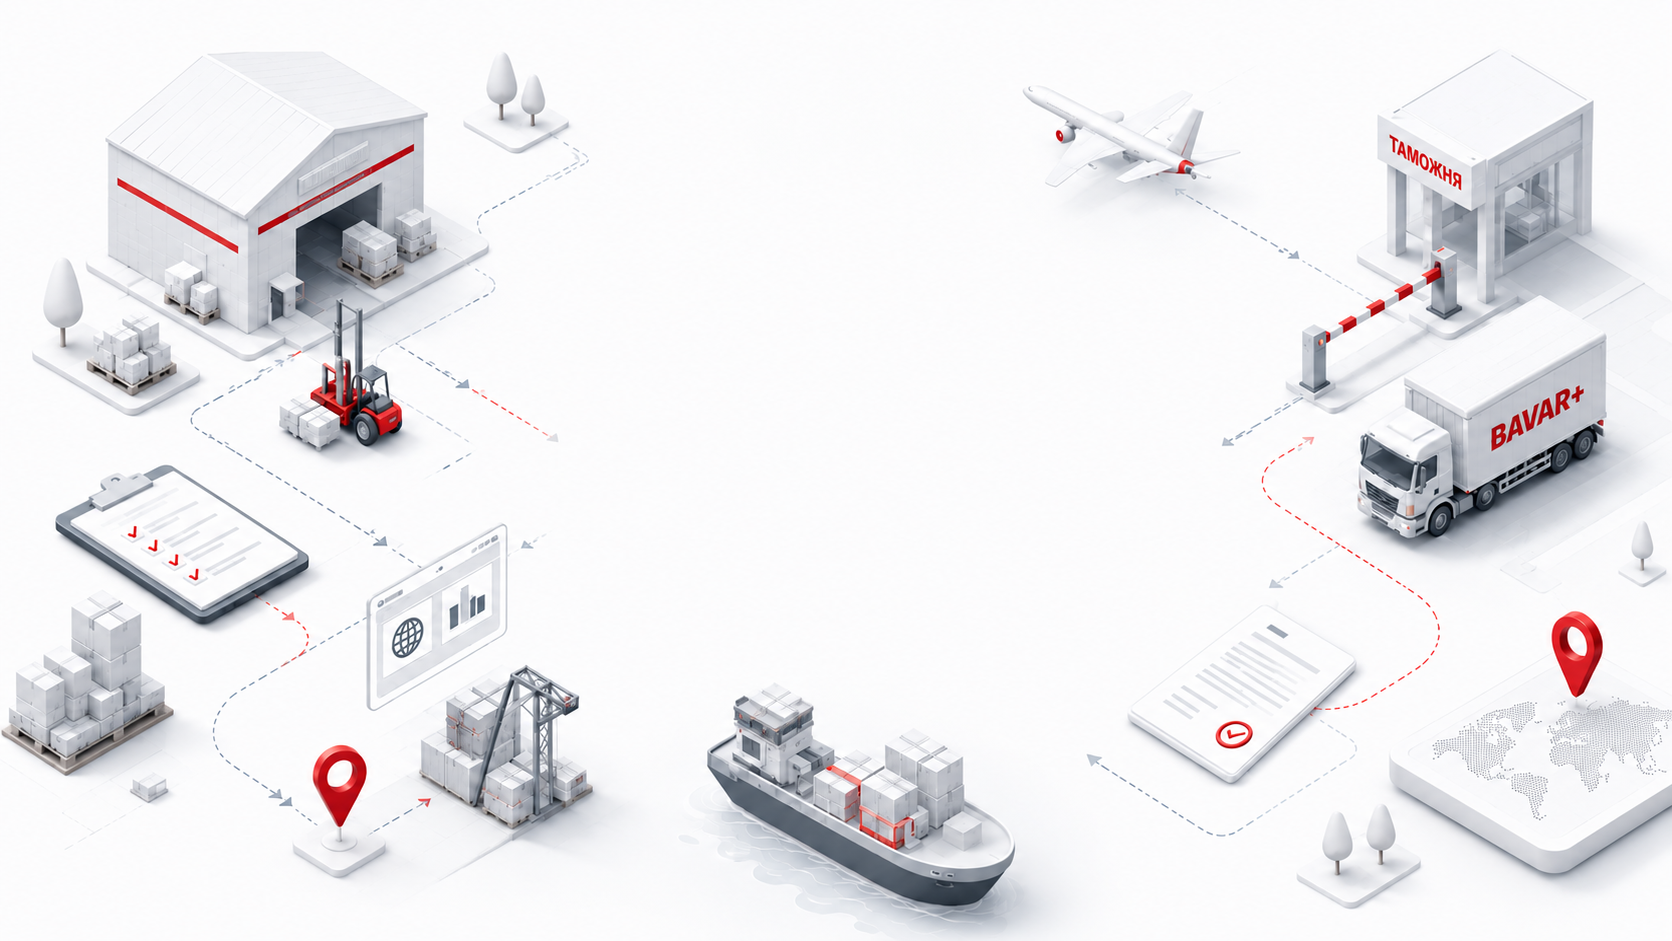
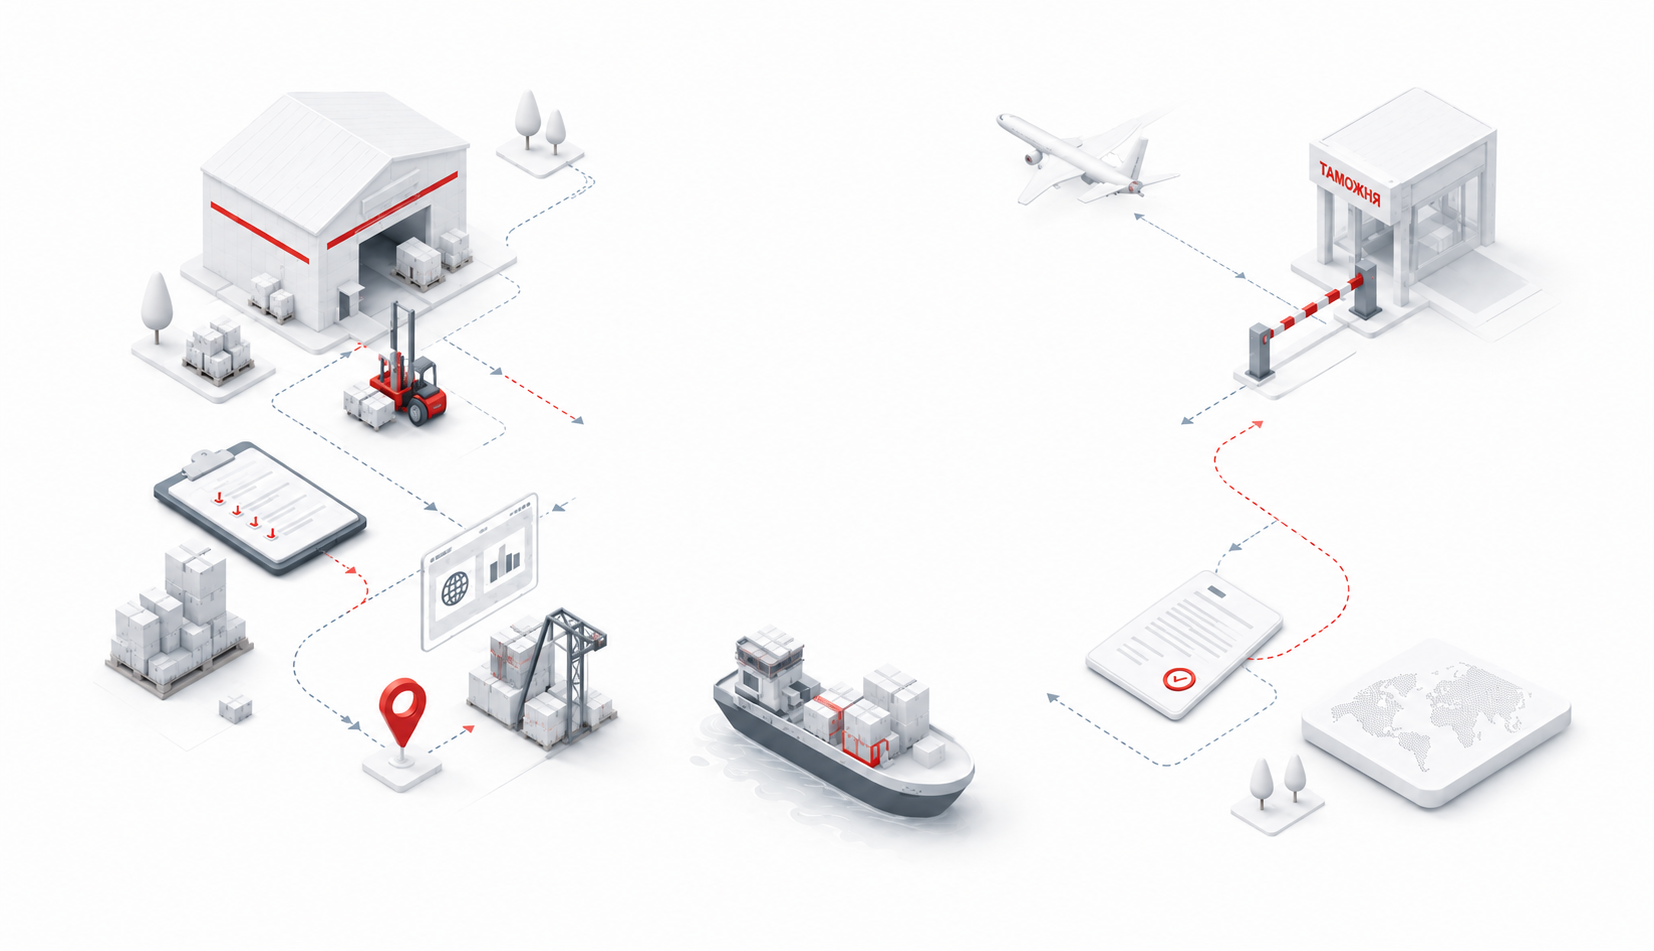
V1 hero: 3-layer animated scene (bg + driving-in truck + floating pin)
- bg-v2.png replaced with new version (no truck, no pin baked in)
- Added gruz.png — BAVAR+ truck, positioned at top:32% left:68% width:19%
  Animation: slides in from translateX 70% to 0, 1.6s cubic-bezier ease,
  starts 0.4s after page load.
- Added metka.png — red map pin, positioned at top:60% left:86% width:5%,
  with subtle drop-shadow.
  Animation: continuous gentle up-down float (translateY 0 ↔ -14px) on
  2.6s ease-in-out loop.
- Wrapped all 3 images in .hero--v1__bg container so the feathered mask
  (linear-gradient horizontal × vertical, composited intersect) applies
  uniformly to the whole scene.
- prefers-reduced-motion disables both animations.
- Cache bust: bg-v2 ?v=2→3, css ?v=31→32, gruz/metka ?v=1.

diff --git a/assets/styles.css b/assets/styles.css
@@ -337,7 +337,10 @@ p { margin: 0; }
 .hero--v1 .hero__cta { justify-content: center; }
 /* V2: full-width изометрическая сцена за центральным текстом */
 .hero--v1 { position: relative; overflow: hidden; }
-.hero--v1__scene {
+/* Обёртка трёх слоёв (сцена + грузовик + метка). Все вместе центрируются
+   и получают feathered-маску по краям. Грузовик и метка позиционируются
+   абсолютно внутри обёртки в процентах от её размеров. */
+.hero--v1__bg {
   position: absolute;
   top: 50%;
   left: 50%;
@@ -345,11 +348,9 @@ p { margin: 0; }
   width: 100%;
   min-width: 1400px;
   max-width: 1920px;
-  height: auto;
   z-index: 1;
   pointer-events: none;
   user-select: none;
-  /* плавный feathered-фейд по всем 4 краям — изображение растворяется в белый фон */
   -webkit-mask-image:
     linear-gradient(to right,  transparent 0%, #000 10%, #000 90%, transparent 100%),
     linear-gradient(to bottom, transparent 0%, #000 10%, #000 90%, transparent 100%);
@@ -358,6 +359,42 @@ p { margin: 0; }
     linear-gradient(to right,  transparent 0%, #000 10%, #000 90%, transparent 100%),
     linear-gradient(to bottom, transparent 0%, #000 10%, #000 90%, transparent 100%);
   mask-composite: intersect;
+}
+.hero--v1__scene {
+  display: block;
+  width: 100%;
+  height: auto;
+}
+/* Грузовик — въезжает справа при загрузке и встаёт на место рядом с таможней */
+.hero--v1__truck {
+  position: absolute;
+  top: 32%;
+  left: 68%;
+  width: 19%;
+  height: auto;
+  animation: truckDriveIn 1.6s cubic-bezier(0.22, 1, 0.36, 1) 0.4s both;
+}
+@keyframes truckDriveIn {
+  0%   { transform: translateX(70%); opacity: 0; }
+  100% { transform: translateX(0); opacity: 1; }
+}
+/* Метка — плавно покачивается вверх-вниз над картой мира */
+.hero--v1__pin {
+  position: absolute;
+  top: 60%;
+  left: 86%;
+  width: 5%;
+  height: auto;
+  animation: pinFloat 2.6s ease-in-out infinite;
+  filter: drop-shadow(0 6px 8px rgba(230,57,70,0.18));
+}
+@keyframes pinFloat {
+  0%, 100% { transform: translateY(0); }
+  50%      { transform: translateY(-14px); }
+}
+@media (prefers-reduced-motion: reduce) {
+  .hero--v1__truck { animation: none; }
+  .hero--v1__pin   { animation: none; }
 }
 @media (max-width: 1100px) {
   .hero--v1 .hero__inner { min-height: 0; padding: 56px 0 64px; }

diff --git a/index.html b/index.html
@@ -8,7 +8,7 @@
 <link rel="preconnect" href="https://fonts.googleapis.com">
 <link rel="preconnect" href="https://fonts.gstatic.com" crossorigin>
 <link href="https://fonts.googleapis.com/css2?family=Inter:wght@400;500;600;700;800;900&display=swap" rel="stylesheet">
-<link rel="stylesheet" href="assets/styles.css?v=31">
+<link rel="stylesheet" href="assets/styles.css?v=32">
 </head>
 <body>
 
@@ -75,8 +75,12 @@
      ============================================================ -->
 <section class="hero hero--v1" data-variant="v1">
   <div class="wrap">
-    <!-- Изометрическая иллюстрация-фон логистики на всю ширину hero -->
-    <img class="hero--v1__scene" src="assets/bg-v2.png?v=2" alt="" aria-hidden="true">
+    <!-- Изометрическая иллюстрация-фон логистики с анимированными слоями -->
+    <div class="hero--v1__bg" aria-hidden="true">
+      <img class="hero--v1__scene" src="assets/bg-v2.png?v=3" alt="">
+      <img class="hero--v1__truck" src="assets/gruz.png?v=1" alt="">
+      <img class="hero--v1__pin"   src="assets/metka.png?v=1" alt="">
+    </div>
     <div class="hero__inner">
       <div class="hero__content">
         <div class="hero__logo">БАВАР<span class="hero__logo-plus">+</span></div>
